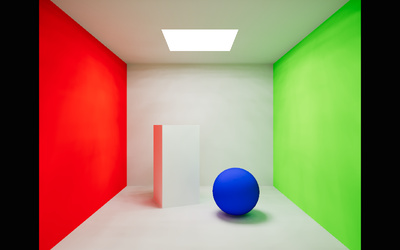
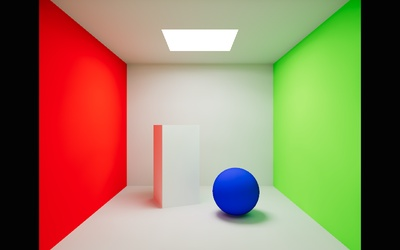
LightMapDenoiser: Add a mode for correlated noise.
All texels of a stochastic radiosity sample share its directions, so their
noise is correlated: it is streaky and blotchy, and averaging neighbors does
not reduce it like independent noise. The filter assumed independent noise,
shrank its noise estimate over the passes and stopped averaging in its wider
passes. The new correlation option keeps the estimate for correlated noise,
so the wider passes remove the streaks, and a lower luminancePhi keeps the
contact shadows.

The example bakes the radiosity with 64 directions per sample on desktop
GPUs, like the LightBaker of #35124, instead of 16, at the same speed, and
bakes 1024 samples.

diff --git a/examples/jsm/lighting/LightMapDenoiser.js b/examples/jsm/lighting/LightMapDenoiser.js
@@ -1,5 +1,5 @@
 import { BackSide, BufferAttribute, BufferGeometry, DoubleSide, FloatType, HalfFloatType, Mesh, NodeMaterial, NoBlending, OrthographicCamera, QuadMesh, RendererUtils, RenderTarget, Scene, Vector2 } from 'three/webgpu';
-import { Fn, If, abs, attribute, dot, exp, float, ivec2, length, luminance, max, mrt, normalWorldGeometry, positionWorld, pow, round, screenCoordinate, sqrt, texture, uniform, uv, vec2, vec3, vec4 } from 'three/tsl';
+import { Fn, If, abs, attribute, dot, exp, float, ivec2, length, luminance, max, mix, mrt, normalWorldGeometry, positionWorld, pow, round, screenCoordinate, sqrt, texture, uniform, uv, vec2, vec3, vec4 } from 'three/tsl';
 
 // the surface buffer is rasterized with these jitters, so that it covers the texels that
 // the first samples of the light mapper cover
@@ -24,7 +24,7 @@ let _rendererState;
  *
  * The filter removes the fine grain of the noise, so a denoised light map can be baked to a higher
  * noise tolerance. The noise that is correlated between texels, e.g. from directions shared by
- * all texels of a sample, is blotchy and stays.
+ * all texels of a sample, is blotchy, see {@link LightMapDenoiser#correlation} to filter it.
  *
  * ```js
  * const lightMapper = new LightMapper( renderer, size, irradiance, { moments: true } );
@@ -52,8 +52,9 @@ class LightMapDenoiser {
 	 * @param {number} [options.luminancePhi=3] - How many standard deviations of the noise luminance differences may span before texels stop being averaged.
 	 * @param {number} [options.normalPhi=64] - The exponent of the normal similarity weight.
 	 * @param {number} [options.planePhi=0.2] - The sine of the angle to the tangent plane at which neighbors lose most of their weight.
+	 * @param {number} [options.correlation=0] - How much of their noise neighboring texels share, see {@link LightMapDenoiser#correlation}.
 	 */
-	constructor( renderer, lightMapper, { iterations = 4, luminancePhi = 3, normalPhi = 64, planePhi = 0.2 } = {} ) {
+	constructor( renderer, lightMapper, { iterations = 4, luminancePhi = 3, normalPhi = 64, planePhi = 0.2, correlation = 0 } = {} ) {
 
 		/**
 		 * The renderer.
@@ -98,6 +99,19 @@ class LightMapDenoiser {
 		 * @type {UniformNode<float>}
 		 */
 		this.planePhi = uniform( planePhi );
+
+		/**
+		 * How much of their noise neighboring texels share, from 0 for independent noise, e.g. of rays
+		 * per texel, to 1 for noise that neighbors share, e.g. of the directions that all texels of a
+		 * {@link StochasticRadiosity} sample share. Averaging texels with independent noise reduces it,
+		 * so the noise estimate shrinks over the passes and the wider passes average less. Correlated
+		 * noise does not average out between neighbors, so its estimate is kept, and the wider passes
+		 * keep averaging the streaks of the noise. Since the estimate stays large, lower the
+		 * {@link LightMapDenoiser#luminancePhi} with it to keep details like contact shadows.
+		 *
+		 * @type {UniformNode<float>}
+		 */
+		this.correlation = uniform( correlation );
 
 		/**
 		 * The relative noise of the light map, the standard deviation of a texel over its value. It is only
@@ -365,6 +379,7 @@ class LightMapDenoiser {
 		const luminancePhi = this.luminancePhi;
 		const normalPhi = this.normalPhi;
 		const planePhi = this.planePhi;
+		const correlation = this.correlation;
 
 		const filter = Fn( () => {
 
@@ -433,6 +448,7 @@ class LightMapDenoiser {
 				const sumY = vec3( 0 ).toVar();
 				const noise = vec3( 0 ).toVar(); // sums of w w s s, times 1, x, y
 				const noiseSpread = vec3( 0 ).toVar(); // times x x, x y, y y
+				const deviations = vec3( 0 ).toVar(); // sums of w s, times 1, x, y
 
 				for ( let y = - 2; y <= 2; y ++ ) {
 
@@ -454,6 +470,7 @@ class LightMapDenoiser {
 							sumY.addAssign( value.rgb.mul( weight.mul( y ) ) );
 							noise.addAssign( vec3( deviation2, deviation2.mul( x ), deviation2.mul( y ) ) );
 							noiseSpread.addAssign( vec3( deviation2.mul( x * x ), deviation2.mul( x * y ), deviation2.mul( y * y ) ) );
+							deviations.addAssign( vec3( 1, x, y ).mul( weight.mul( value.a ) ) );
 
 						} );
 
@@ -474,7 +491,11 @@ class LightMapDenoiser {
 				const fitNoise = row.x.pow2().mul( noise.x ).add( row.y.pow2().mul( noiseSpread.x ) ).add( row.z.pow2().mul( noiseSpread.z ) )
 					.add( row.x.mul( row.y ).mul( noise.y ).mul( 2 ) ).add( row.x.mul( row.z ).mul( noise.z ).mul( 2 ) ).add( row.y.mul( row.z ).mul( noiseSpread.y ).mul( 2 ) );
 
-				result.assign( vec4( fit, sqrt( fitNoise.max( 0 ) ) ) );
+				// the noise of the fit if the noise of the taps were independent, and if it were shared
+
+				const sharedNoise = dot( row, deviations ).pow2();
+
+				result.assign( vec4( fit, sqrt( mix( fitNoise, sharedNoise, correlation ).max( 0 ) ) ) );
 
 			} );
 

diff --git a/examples/webgpu_lightmap_baking.html b/examples/webgpu_lightmap_baking.html
@@ -81,8 +81,13 @@
 			// light probes are deterministic and only need a few samples to antialias the light map,
 			// the VXGI cones and the radiosity directions are rotated per sample and converge over more samples
 
-			const bakeSamples = { 'Light Probe': 16, 'VXGI': 64, 'Stochastic Radiosity': 512 };
+			const bakeSamples = { 'Light Probe': 16, 'VXGI': 64, 'Stochastic Radiosity': 1024 };
 			const frameSamples = { 'Light Probe': 1, 'VXGI': 1, 'Stochastic Radiosity': 4 };
+
+			// the radiosity converges in fewer samples with more directions per sample. Desktop GPUs render
+			// them at almost no extra cost, but they take memory and more time per sample on phones
+
+			const phone = window.matchMedia( '(pointer: coarse)' ).matches;
 
 			init();
 
@@ -304,7 +309,7 @@
 
 					// collects the scene and solves the bounces, which the light map gathers
 
-					const radiosity = new StochasticRadiosity();
+					const radiosity = new StochasticRadiosity( { directions: phone ? 16 : 64 } );
 					radiosity.update( renderer, scene );
 
 					irradiance = radiosityIrradiance( radiosity );
@@ -318,9 +323,10 @@
 				lightMapper.addObjects( meshes );
 
 				// the baked light map is denoised and its seams are stitched. The seams stay the same while the
-				// atlas does
+				// atlas does. All texels of a radiosity sample share its directions, so their noise is correlated,
+				// and a lower luminance threshold keeps the contact shadows
 
-				denoiser = new LightMapDenoiser( renderer, lightMapper );
+				denoiser = new LightMapDenoiser( renderer, lightMapper, params.algorithm === 'Stochastic Radiosity' ? { correlation: 1, luminancePhi: 2 } : {} );
 				stitcher = new LightMapSeams( renderer, lightMapper, { seams } );
 				seams = stitcher.seams;
 
